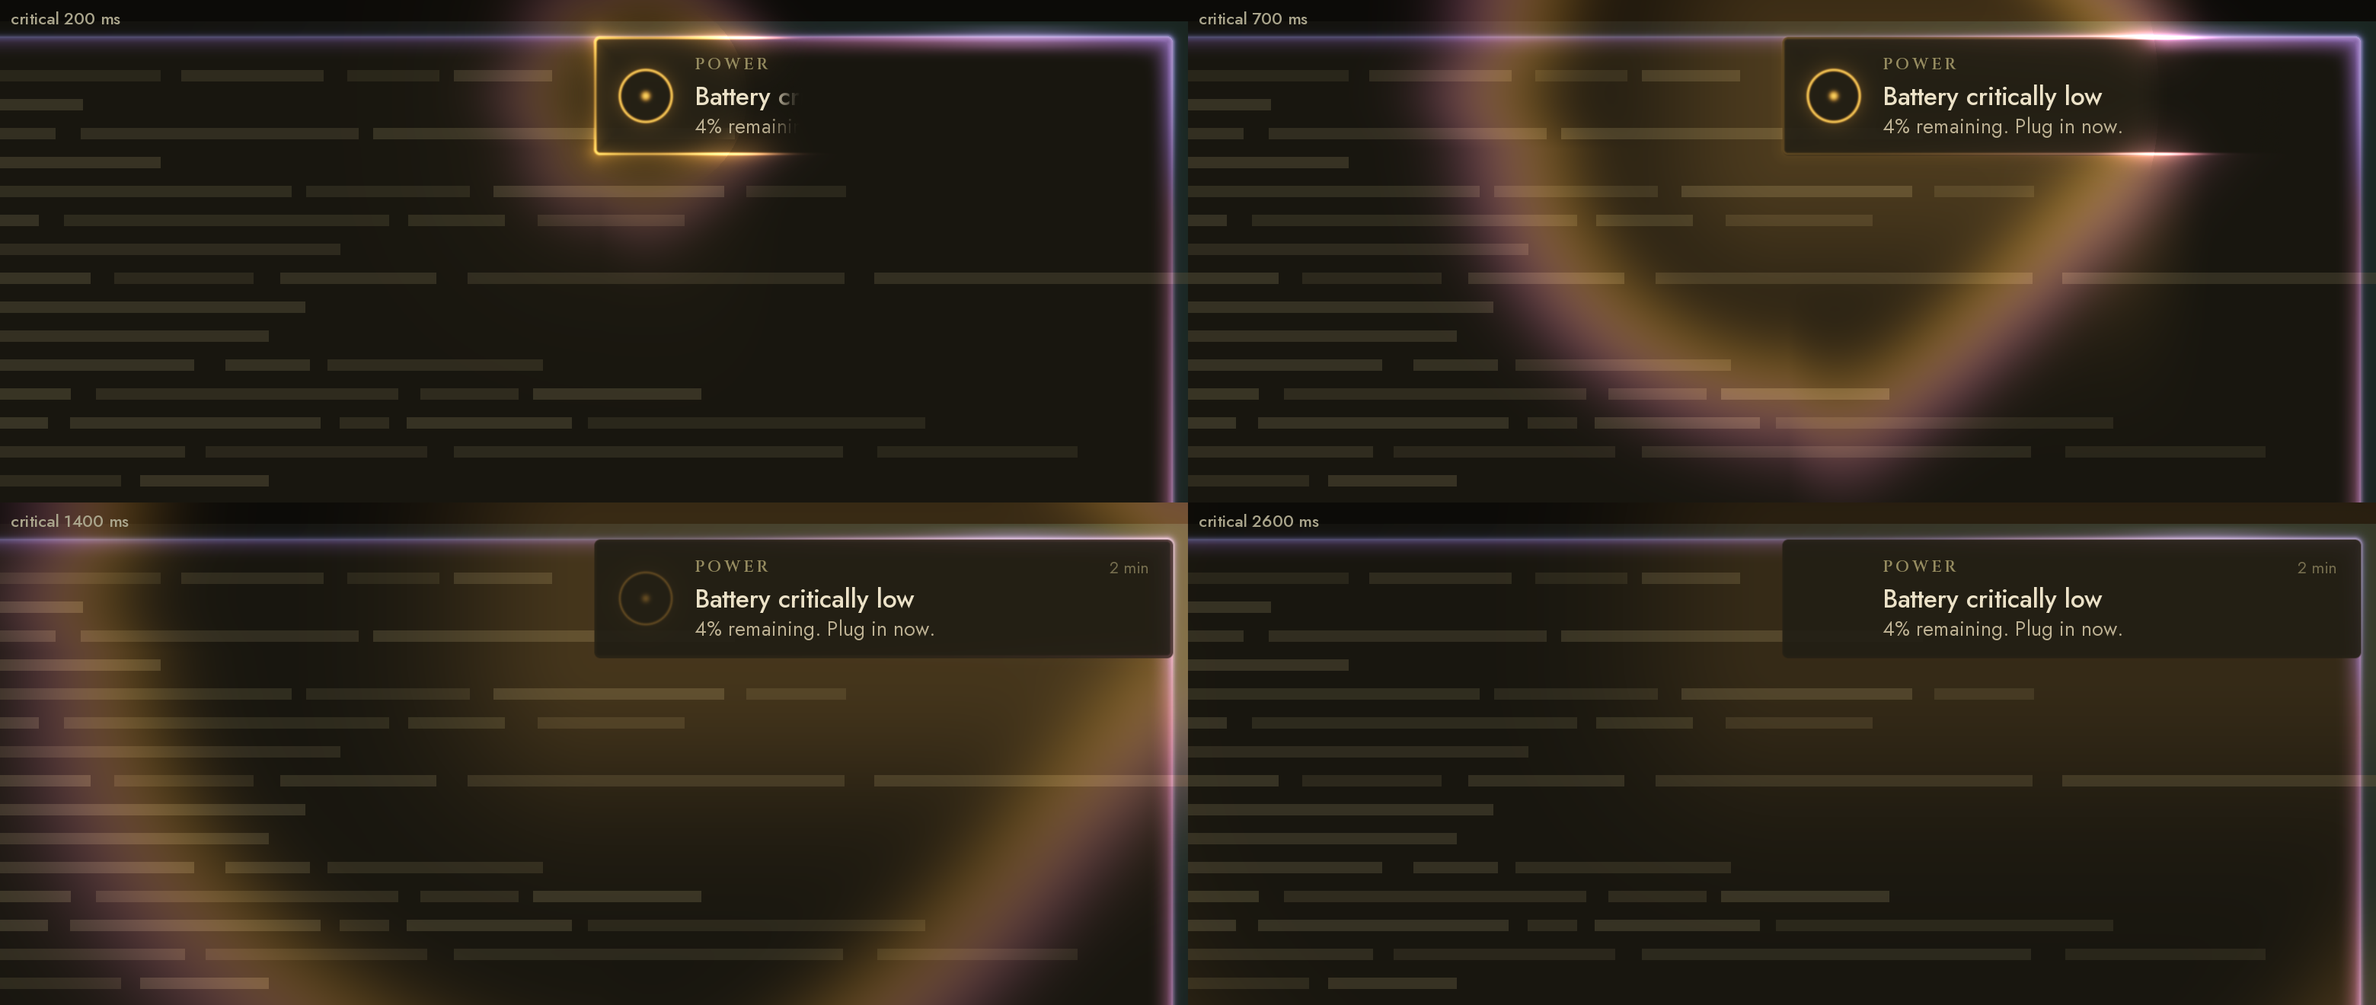
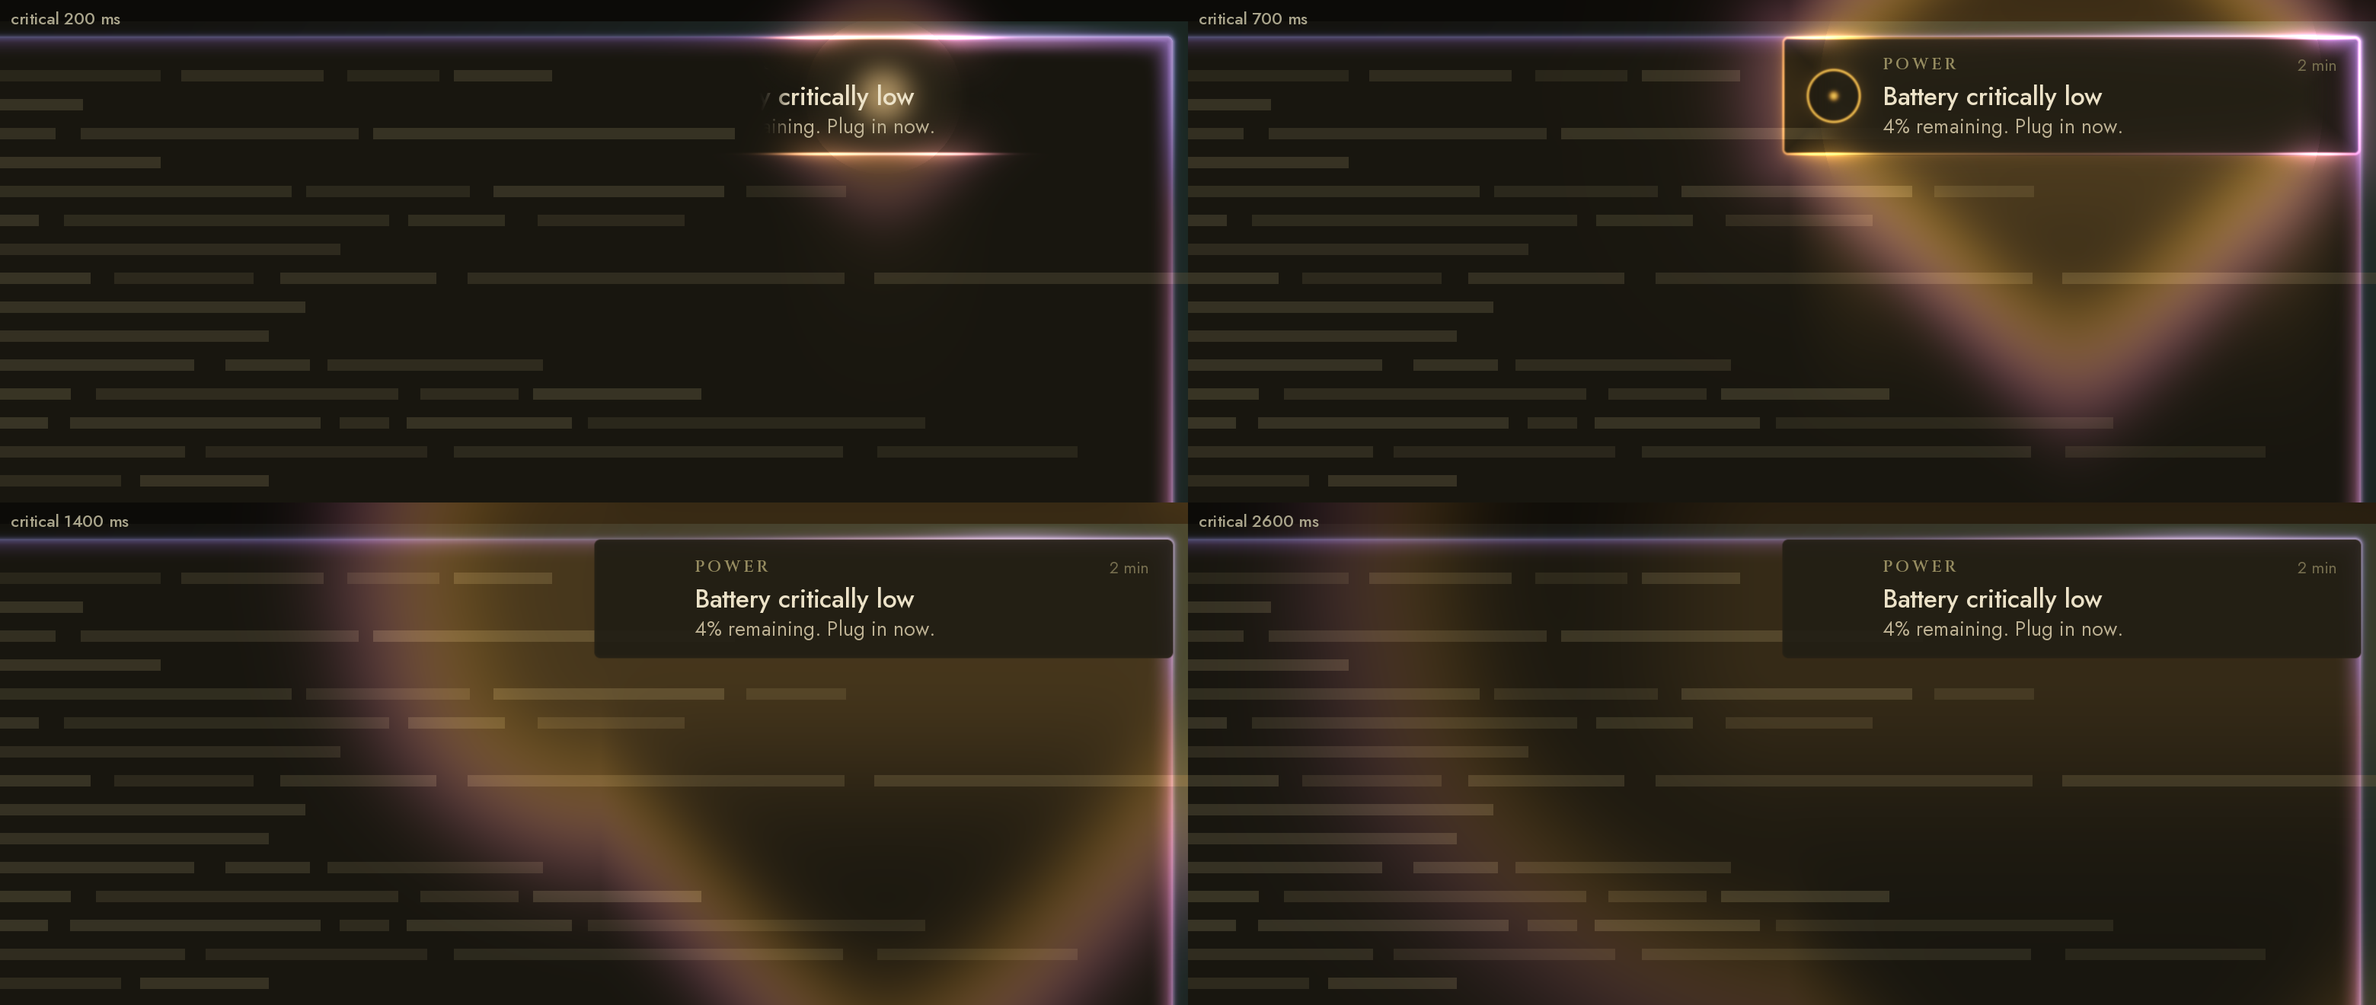
Docs for the centred arrival and the position setting
Claude-Session: https://claude.ai/code/session_01RawmEkvnbUV4A7X3Nfo38z

diff --git a/docs/design/arrival/arrival-mock.py b/docs/design/arrival/arrival-mock.py
@@ -129,6 +129,7 @@ def extract(name):
     out = f"{tmp}/{name}.glsl"; subprocess.run([QSB, "-x", "glsl,100 es", "-o", out, f"{ROOT}/shaders/{name}.frag.qsb"], check=True); return out
 RING, FLARE, REVEAL = extract("toastring"), extract("toastflare"), extract("cardreveal")
 ICON = (34, 39, 17)                                           # icon centre and ring radius in a 380x78 card, as the real card reports for a glyph
+ORIGIN = (190, 39)                                            # where the wave starts: the card's centre (it used to be the icon)
 
 def reach_card(w, h, ix, iy): return math.hypot(max(ix, w - ix), max(iy, h - iy)) + 30
 RING_REACH = max(180, min(340, SCREEN[1] * 0.26))
@@ -144,7 +145,7 @@ def arrival_frame(x0, y0, cw, ch, cards, times_ms, strength=1.0, urgencies=None,
     u = dict(seed=SEED, strength=strength, reach=RING_REACH, radius=4, resolution=(cw, ch))
     for i in range(3):
         if i < len(cards):
-            x, y, w, h = cards[i]; ix, iy = ICON[0], ICON[1] + (h - 78) / 2
+            x, y, w, h = cards[i]; ix, iy = ORIGIN[0], ORIGIN[1] + (h - 78) / 2
             p = min(max(times_ms[i] / dur_for(urgencies[i]), 0.0), 1.0); rc = reach_card(w, h, ix, iy)
             u[f"rect{i}"] = (x - x0, y - y0, w, h); u[f"src{i}"] = (x - x0 + ix, y - y0 + iy, rc, front_at(p, rc)); u[f"ev{i}"] = (p, urgencies[i], amps[i], 1.3 * i)
         else:
@@ -152,7 +153,7 @@ def arrival_frame(x0, y0, cw, ch, cards, times_ms, strength=1.0, urgencies=None,
     img = over(img, render(RING, cw * S, ch * S, **u))
     # the cards, each revealed by its front, with its flare above
     for i, (x, y, w, h) in enumerate(cards):
-        ix, iy = ICON[0], ICON[1] + (h - 78) / 2
+        ix, iy = ORIGIN[0], ORIGIN[1] + (h - 78) / 2
         p = min(max(times_ms[i] / dur_for(urgencies[i]), 0.0), 1.0); rc = reach_card(w, h, ix, iy); fr = front_at(p, rc)
         m = 40; ow, oh = w + 2 * m, h + 2 * m; ox, oy = x - m, y - m
         YY, XX = np.mgrid[0:oh * S, 0:ow * S].astype(np.float32)
@@ -162,7 +163,7 @@ def arrival_frame(x0, y0, cw, ch, cards, times_ms, strength=1.0, urgencies=None,
         dist = np.hypot(XX / S - (m + ix), YY / S - (m + iy)); t = np.clip((dist - (fr - 16)) / 26, 0, 1)
         cov = cov * (1 - t * t * (3 - 2 * t))[..., None]                     # cardreveal.frag
         fade = 1 - min(max((fr / rc - 0.7) / 0.4, 0), 1); fade = fade * fade * (3 - 2 * fade)
-        fl = render(FLARE, ow * S, oh * S, strength=strength, urgency=urgencies[i], radius=4, front=fr, fade=fade, size=(ow, oh), card=(m, m, w, h), icon=(m + ix, m + iy, ICON[2]))
+        fl = render(FLARE, ow * S, oh * S, strength=strength, urgency=urgencies[i], radius=4, front=fr, fade=fade, size=(ow, oh), card=(m, m, w, h), icon=(m + ICON[0], m + h / 2, ICON[2]), origin=(m + ix, m + iy))
         layer = np.concatenate([np.array([36, 32, 21], np.float32) / 255 * cov + fl[..., :3], cov], axis=2)
         sx, sy = (ox - x0) * S, (oy - y0) * S
         cx0, cy0 = max(sx, 0), max(sy, 0); cx1, cy1 = min(sx + ow * S, cw * S), min(sy + oh * S, ch * S)
@@ -175,7 +176,7 @@ def with_text(img, x0, y0, cards, texts, times_ms, rcs):
     out = draw_text(img.copy(), x0, y0, cards, texts)
     H, W = img.shape[:2]; YY, XX = np.mgrid[0:H, 0:W].astype(np.float32)
     for (x, y, w, h), tm, rc in zip(cards, times_ms, rcs):
-        p = min(max(tm / 4200, 0), 1); fr = front_at(p, rc); ix, iy = x + ICON[0], y + ICON[1]
+        p = min(max(tm / 4200, 0), 1); fr = front_at(p, rc); ix, iy = x + ORIGIN[0], y + ORIGIN[1]
         dist = np.hypot(XX / S + x0 - ix, YY / S + y0 - iy); t = np.clip((dist - (fr - 16)) / 26, 0, 1); keep = (1 - t * t * (3 - 2 * t))[..., None]
         inbox = ((XX / S + x0 >= x) & (XX / S + x0 <= x + w) & (YY / S + y0 >= y) & (YY / S + y0 <= y + h))[..., None]
         out = np.where(inbox, img * (1 - keep) + out * keep, out)
@@ -187,7 +188,7 @@ card = [(1490, 44, 380, 78)]
 frames = []
 for ms in (60, 160, 300, 480, 700, 1000, 1500, 2300, 3300):
     f = arrival_frame(AX0, AY0, ACW, ACH, card, [ms])
-    f = with_text(f, AX0, AY0, card, CARDS[:1], [ms], [reach_card(380, 78, ICON[0], ICON[1])])
+    f = with_text(f, AX0, AY0, card, CARDS[:1], [ms], [reach_card(380, 78, ORIGIN[0], ORIGIN[1])])
     frames.append(label(f, "%d ms" % ms))
 while len(frames) % 3: frames.append(np.zeros_like(frames[0]))
 save(np.concatenate([np.concatenate(frames[i:i + 3], axis=1) for i in range(0, len(frames), 3)], axis=0), "arrival-one")
@@ -197,14 +198,14 @@ for name, u in (("critical", [2]), ("low", [0])):
     frames = []
     for ms in (200, 700, 1400, 2600):
         f = arrival_frame(AX0, AY0, ACW, ACH, card, [ms], urgencies=u)
-        f = with_text(f, AX0, AY0, card, CARDS[1:2] if u[0] == 2 else CARDS[2:3], [ms], [reach_card(380, 78, ICON[0], ICON[1])])
+        f = with_text(f, AX0, AY0, card, CARDS[1:2] if u[0] == 2 else CARDS[2:3], [ms], [reach_card(380, 78, ORIGIN[0], ORIGIN[1])])
         frames.append(label(f, "%s %d ms" % (name, ms)))
     save(np.concatenate([np.concatenate(frames[:2], axis=1), np.concatenate(frames[2:], axis=1)], axis=0), "arrival-" + name)
 three = [(1490, 44, 380, 78), (1490, 130, 380, 78), (1490, 216, 380, 78)]
 frames = []
 for ms in ((900, 500, 150), (1800, 1400, 1050)):
     f = arrival_frame(AX0, AY0, ACW, ACH + 60, three, list(ms), amps=[1, 0.6, 0.6])
-    f = with_text(f, AX0, AY0, three, CARDS, list(ms), [reach_card(380, 78, ICON[0], ICON[1])] * 3)
+    f = with_text(f, AX0, AY0, three, CARDS, list(ms), [reach_card(380, 78, ORIGIN[0], ORIGIN[1])] * 3)
     frames.append(label(f, "burst %s ms" % (ms,)))
 save(np.concatenate(frames, axis=1), "arrival-burst")
 
@@ -217,7 +218,7 @@ def exit_front(q, rc, rr): return front_at(exit_start(rc, rr) * (1 - clamp01(q))
 def exit_fade(front, rc): return (1 - settle(front, rc)) * clamp01(front / (0.35 * rc))
 
 def exit_frame(x0, y0, cw, ch, card, q, urgency=1):
-    x, y, w, h = card; ix, iy = ICON[0], ICON[1]; rc = reach_card(w, h, ix, iy); p0 = exit_start(rc, RING_REACH)
+    x, y, w, h = card; ix, iy = ORIGIN[0], ORIGIN[1]; rc = reach_card(w, h, ix, iy); p0 = exit_start(rc, RING_REACH)
     p = p0 * (1 - q); fr_ring = front_at(p, rc); fr = exit_front(q, rc, RING_REACH)
     img = over(scene(x0, y0, cw, ch), window_layer(x0, y0, cw, ch))
     u = dict(seed=SEED, strength=1.0, reach=RING_REACH, radius=4, resolution=(cw, ch),
@@ -231,7 +232,7 @@ def exit_frame(x0, y0, cw, ch, card, q, urgency=1):
     cov = np.clip(0.5 - dd * S * 0.5, 0, 1)[..., None] * 0.93
     dist = np.hypot(XX / S - (m + ix), YY / S - (m + iy)); t = np.clip((dist - (fr - 16)) / 26, 0, 1); keep = (1 - t * t * (3 - 2 * t))[..., None]
     cov = cov * keep
-    fl = render(FLARE, ow * S, oh * S, strength=1.0, urgency=urgency, radius=4, front=max(fr, 0), fade=exit_fade(fr, rc), reverse=1, size=(ow, oh), card=(m, m, w, h), icon=(m + ix, m + iy, ICON[2]))
+    fl = render(FLARE, ow * S, oh * S, strength=1.0, urgency=urgency, radius=4, front=max(fr, 0), fade=exit_fade(fr, rc), reverse=1, size=(ow, oh), card=(m, m, w, h), icon=(m + ICON[0], m + h / 2, ICON[2]), origin=(m + ix, m + iy))
     layer = np.concatenate([np.array([36, 32, 21], np.float32) / 255 * cov + fl[..., :3], cov], axis=2)
     sx, sy = (ox - x0) * S, (oy - y0) * S
     cx0, cy0 = max(sx, 0), max(sy, 0); cx1, cy1 = min(sx + ow * S, cw * S), min(sy + oh * S, ch * S)

diff --git a/AGENTS.md b/AGENTS.md
@@ -357,14 +357,14 @@ actually on before suspecting the new code.
 
 What it is (`docs/design/arrival/README` section in `docs/design/README.md` has the numbers):
 - **One wave per toast, one timeline.** `ArrivalLogic.js` (pure): `p` 0 to 1 over 3.2 / 4.2 / 6 s (low / normal / critical; the theme's old ring's) times
-  `motion_slowdown`, `frontAt(p)` the front's radius from the icon, `settle` the hand-over, `isFresh` (a toast restored after a shell restart does not arrive).
+  `motion_slowdown`, `frontAt(p)` the front's radius from the card's centre, `settle` the hand-over, `isFresh` (a toast restored after a shell restart does not arrive).
 - `components/ArrivalFlare.qml` (per toast, over the card) owns the toast's clock and the flare overlay (`shaders/toastflare.frag`: the card's edge lit as the
   front crosses it, an afterglow, the icon's spore); the delegate masks the card with `shaders/cardreveal.frag` as a `layer.effect` while `arrival.revealing`;
   `ToastRim` gets `gate` (fades the settled rim in as the front finishes crossing) and `calm` (no ignition flash); `SlotMotion.reveal` opens the slot in 300 ms
   and leaves the card's opacity and scale at 1 on entry. Armed from creation so the card is hidden from the first frame; the clock starts one tick later,
   when layout has given the card its size.
 - `components/ArrivalLayer.qml` (one per popup window, under the column, like `SporeLayer`) draws `shaders/toastring.frag`: a ring and a halo that follow **each card's
-  own rounded rectangle** (a pixel is reached by the front at `d + |icon - q|`, d its distance from the outline and q the nearest outline point), at most three at a
+  own rounded rectangle** (a pixel is reached by the front at `d + |centre - q|`, d its distance from the outline and q the nearest outline point), at most three at a
   time, rendered at half resolution, only while there are any; the window stays visible while it runs (`visible: ... || arrivalLayer.active`, CONTRACT.md). It follows the
   card while it exists (the stack moves).
 - **Found live (2026-11-02, from a recording):** the ring was cut off in a straight vertical line as it travelled towards the middle of the screen: the layer was
@@ -380,6 +380,11 @@ What it is (`docs/design/arrival/README` section in `docs/design/README.md` has 
   Verified: logic (59), shaders (53, incl. 3 exit checks and 2 deliberate breaks), probe (152: ordering of dissolve, spores and fold, the retreating front, the rim gate, the ring told
   and run backwards, the instant paths, `arrival=0`, another theme, slowdown); 10 of 11 QML breaks caught in isolated copies (the survivor: the arrival's clock left running while exiting,
   equivalent, the exit's state takes precedence). **Not verified:** how it looks and feels live (checklist section H, the exit items).
+- **Centred (2026-11-02, "try"):** the user asked for the toasts at the top centre of the screen and the arrival centred on the toast. **Position:** `position=center|right` in the fork conf
+  (`Service.qml`: `popupWindow.centered`, the column's and the spore layer's `x` replace their right anchors; theme-gated; right is the default and is the stock place). **Origin:** the wave
+  now starts at the card's centre, not the icon (`ArrivalFlare.origin`, `toastflare.frag`'s `origin` uniform with a spark there and the icon's ring lit as the front reaches it, `cardreveal.frag`'s
+  `origin`, the ring's `src`); the card reach is from the centre. Verified: arrival-test (54), probe (168: position parsing, the column and spore layer centred or right, another theme stock, the
+  origin and reach); 6 of 7 wiring breaks caught (the survivor is the reveal mask's own origin binding, which only a live look can see, like the mask itself).
 - Setting: `arrival` 0 to 2, default 1, in the fork conf; 0 turns the whole arrival off (back to the plain unfold and the blend's ignition).
 - **Theme side (branch `p2/arrival` there):** `ArrivalGlow.qml`, `arrival.frag`, `notifyGlow`/`notifyGlowStrength` with their popup slider and switch, the layer rule's
   namespace and the interim `glow.json` writer are removed; the feed, the sound and the missed marks stay. The theme alone has no arrival light now (the user's decision).

diff --git a/docs/design/README.md b/docs/design/README.md
@@ -143,7 +143,7 @@ card with the windows' band reads as a bevelled frame). Regenerate: `python3 doc
 | `glow-1-windowed.png` | Each toast is a window: same light, band and colour as the window it overlaps; its colour follows the field at its place, urgency only leans it (amber for critical, moss for low). |
 | `glow-2-one-body.png` | The stack as one shape: the cards smoothly merged, the gaps become necks, the seams hairlines, the glow only on the outer outline. |
 | `glow-3-docked.png` | The same body flush with the screen edge, as if it grew out of it. |
-| `glow-arrival.png` | The arrival as one event: a front leaves the icon; the card is solid inside it and nothing beyond; the edge flares as the front crosses it; the ring goes on out into the screen. |
+| `glow-arrival.png` | The arrival as one event: a front leaves the icon (the first design; the arrival below leaves the card's centre); the card is solid inside it and nothing beyond; the edge flares as the front crosses it; the ring goes on out into the screen. |
 | `scene.png` | The window glow alone. |
 
 Not designed yet: what the countdown becomes (the toast's own light dimming over its life is the candidate), the exit (the card
@@ -180,3 +180,11 @@ space looked wrong); the spore at the icon goes out last. The spores the toast l
 shut once the dissolve is 80% done so the stack closes up behind it (1.1 s in all, times `motion_slowdown`). It is the arrival's wave from the progress at which the front is
 15% beyond the card (`ArrivalLogic.exitStart`, derived from the geometry so it holds on any screen) back to 0, at 1 s instead of 4.2 s, minus up to 30 px so nothing of the card
 is left round the icon. Left-click and the IPC dismissals are still instant (as stock); `arrival=0` keeps the old 300 ms fold.
+
+### The arrival leaves the card's centre; the column can be centred on the screen (2026-11-02, "try")
+The user asked to try the toasts at the **top centre of the screen** (they are at the top right, as in Omarchy) and the arrival **centred on the toast**: with the wave leaving the icon, which sits at the
+card's left, the ring seemed centred on the toast's top-left corner. Now the wave starts at the card's centre (`ArrivalFlare.origin`; a small spark there spreads into the front, `toastflare.frag`'s
+`origin` uniform), the reveal is a disc growing from the middle to both ends, the ring and halo are symmetric about the card, the icon's ring lights as the front reaches it, and the exit retreats to
+the centre. The card reach is from the centre (about 225 px for a 380x78 card, not 381), so the front crosses the card in about 0.6 s of 4.2 s, a little quicker than before. `arrival-one.png`,
+`arrival-critical.png`, `arrival-low.png`, `arrival-burst.png` and `exit-one.png` were regenerated. `position=center` in the fork's conf file centres the column (the spore layer is 900 px wide and centred
+on it, so spores can drift left of any card); `position=right` is the default. Both are theme-gated like everything else here.

diff --git a/docs/runbooks/live-checklist.md b/docs/runbooks/live-checklist.md
@@ -216,7 +216,7 @@ Restart the shell after updating either repo (new files). The setting is `arriva
 `~/.config/omarchy/annihilation-notifications-fork.conf` (read live; the last line for a key wins). Slow it down to judge it:
 `motion_slowdown=4`, then remove the line. It works with any look. The design is `docs/design/arrival/`.
 
-- [ ] a new toast does **not pop in**: a front of light leaves its **icon** and the card is shown only inside it, round, growing across the card
+- [ ] a new toast does **not pop in**: a front of light leaves the **middle of the card** (a spark) and the card is shown only inside it, round, growing outwards to both ends; the icon's ring lights as the front reaches it
 - [ ] the card's **edge flares** where the front crosses it and cools behind it; nothing flashes, and the text is never half-drawn in a way that
       looks like a glitch. Look for a hard or flickering edge on the card's content (the card is rendered into a layer while it arrives), text
       that shifts when the arrival ends, and the stack below making room smoothly (300 ms)
@@ -226,7 +226,7 @@ Restart the shell after updating either repo (new files). The setting is `arriva
       arrival's few seconds and the toast is exactly the settled one
 - [ ] critical toasts are amber to pink, low ones moss, normal ones teal to blue, and they are as strong as the theme's old ring was (say if not)
 - [ ] **the exit**: when a toast expires (or you right-click it) it does not fold and fade: a front of light **retreats across the card to the icon**, the card
-      dissolving from its far corner into the light; the ring and halo **gather back onto it**; the settled rim fades out; the spore at the icon goes out last, and the spores
+      dissolving from its far corners into the light, towards the middle; the ring and halo **gather back onto it**; the settled rim fades out; the spark at the middle goes out last, and the spores
       drift off as the card comes apart; then the stack closes up behind it. About a second. Look for: the card's content edge flickering while the mask retreats, a ring or
       outline that lingers over empty space after the card is gone, the stack closing up late or with a jump, a toast that leaves while another arrives
 - [ ] a **left-click** on a toast (it acts and goes) and `omarchy-shell notifications dismissOne` are still instant, as before

diff --git a/README.md b/README.md
@@ -24,11 +24,11 @@ organic, textured shape, and the countdown line is gone: with this look the root
 toast goes.
 
 0.7.0 (unreleased) moves the **arrival** here from the theme and makes it one event with the card. A new toast does not pop in: a front of light
-leaves its icon and crosses the card, which is shown only inside the front; the card's edge flares as the front crosses it; the front carries
+leaves the **card's centre** (so the arrival is centred on the toast) and crosses the card, which is shown only inside the front; the card's edge flares as the front crosses it; the front carries
 on past the card as a ring and a halo that follow **the card's own outline** (the theme's old ring came from a fixed box near the corner and
 never lined up with the card, which is why it was moved). Teal and blue normally, amber and pink for critical, moss for low; the settled rim
 (whichever look is chosen) fades in as the arrival's edge light falls. `arrival` (0 to 2, default 1) in the same file sets its strength, 0
-turns it off. The theme no longer draws an arrival ring; without this fork there is none.
+turns it off. `position=center` in the same file puts the toast column at the top centre of the screen instead of the top right (`right`, the default, is where Omarchy puts toasts). The theme no longer draws an arrival ring; without this fork there is none.
 
 > ⚠ Plugins run as unsandboxed code inside `omarchy-shell`, and this one *is* your notification
 > daemon. While it is enabled, a bug in it means no notifications. Read the code before enabling it, and

diff --git a/CONTRACT.md b/CONTRACT.md
@@ -64,6 +64,8 @@ All return a string; keep the names and the argument lists.
   the last toast has gone**, to finish drawing the spores it left (`components/SporeLayer.qml`) and, after an arrival, the ring and halo that
   leave a new toast's outline (`components/ArrivalLayer.qml`, up to the arrival's 3 to 6 s, times `motion_slowdown`). It never covers or
   intercepts anything: its input region is the toast column, which is empty by then. The layer namespace is unchanged.
+- **Where the toasts are:** top right, as in Omarchy, unless the annihilation theme is active and `position=center` is set in the fork's conf file (read live): then the column is centred
+  horizontally at the top of the screen (same top margin, so below the bar). The window, the layer namespace and the input region are unchanged.
 - Click runs the toast's default action (`omarchy-exec-argv`, else the sender's `default` action) and
   dismisses; right click dismisses; hovering pauses the countdown.
 - Live toasts survive a shell restart (restored from the popup files).
